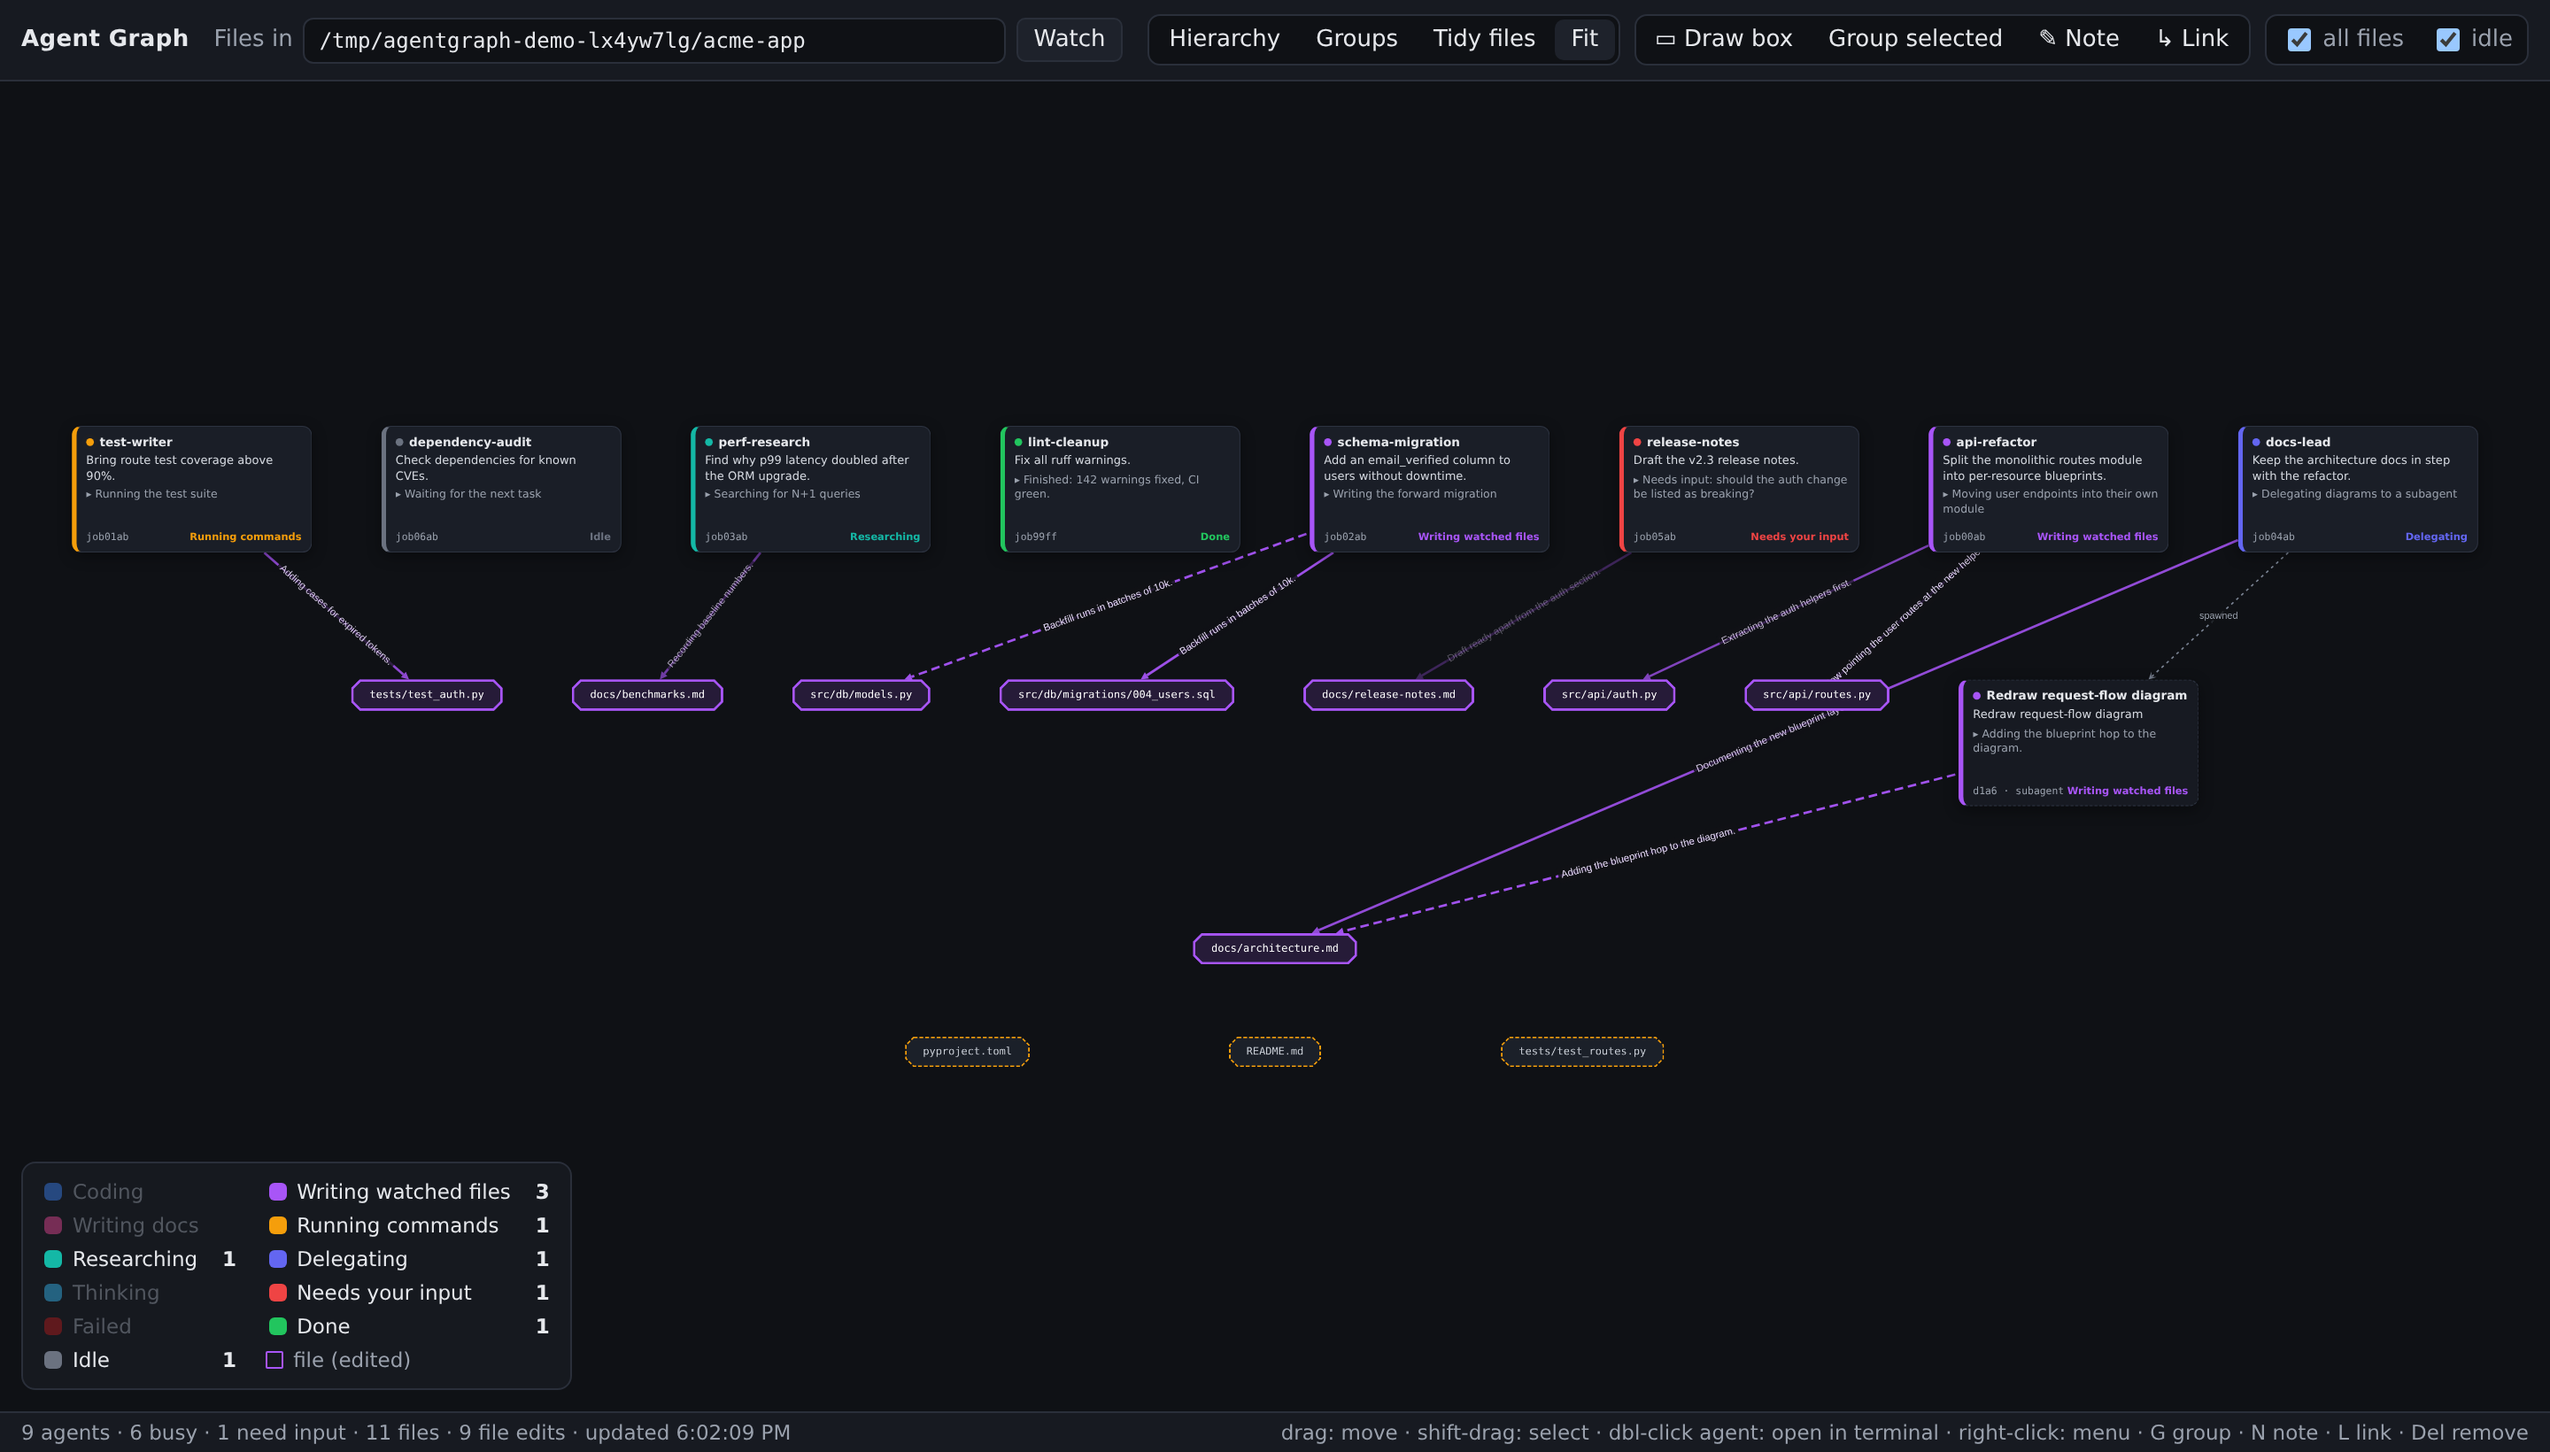
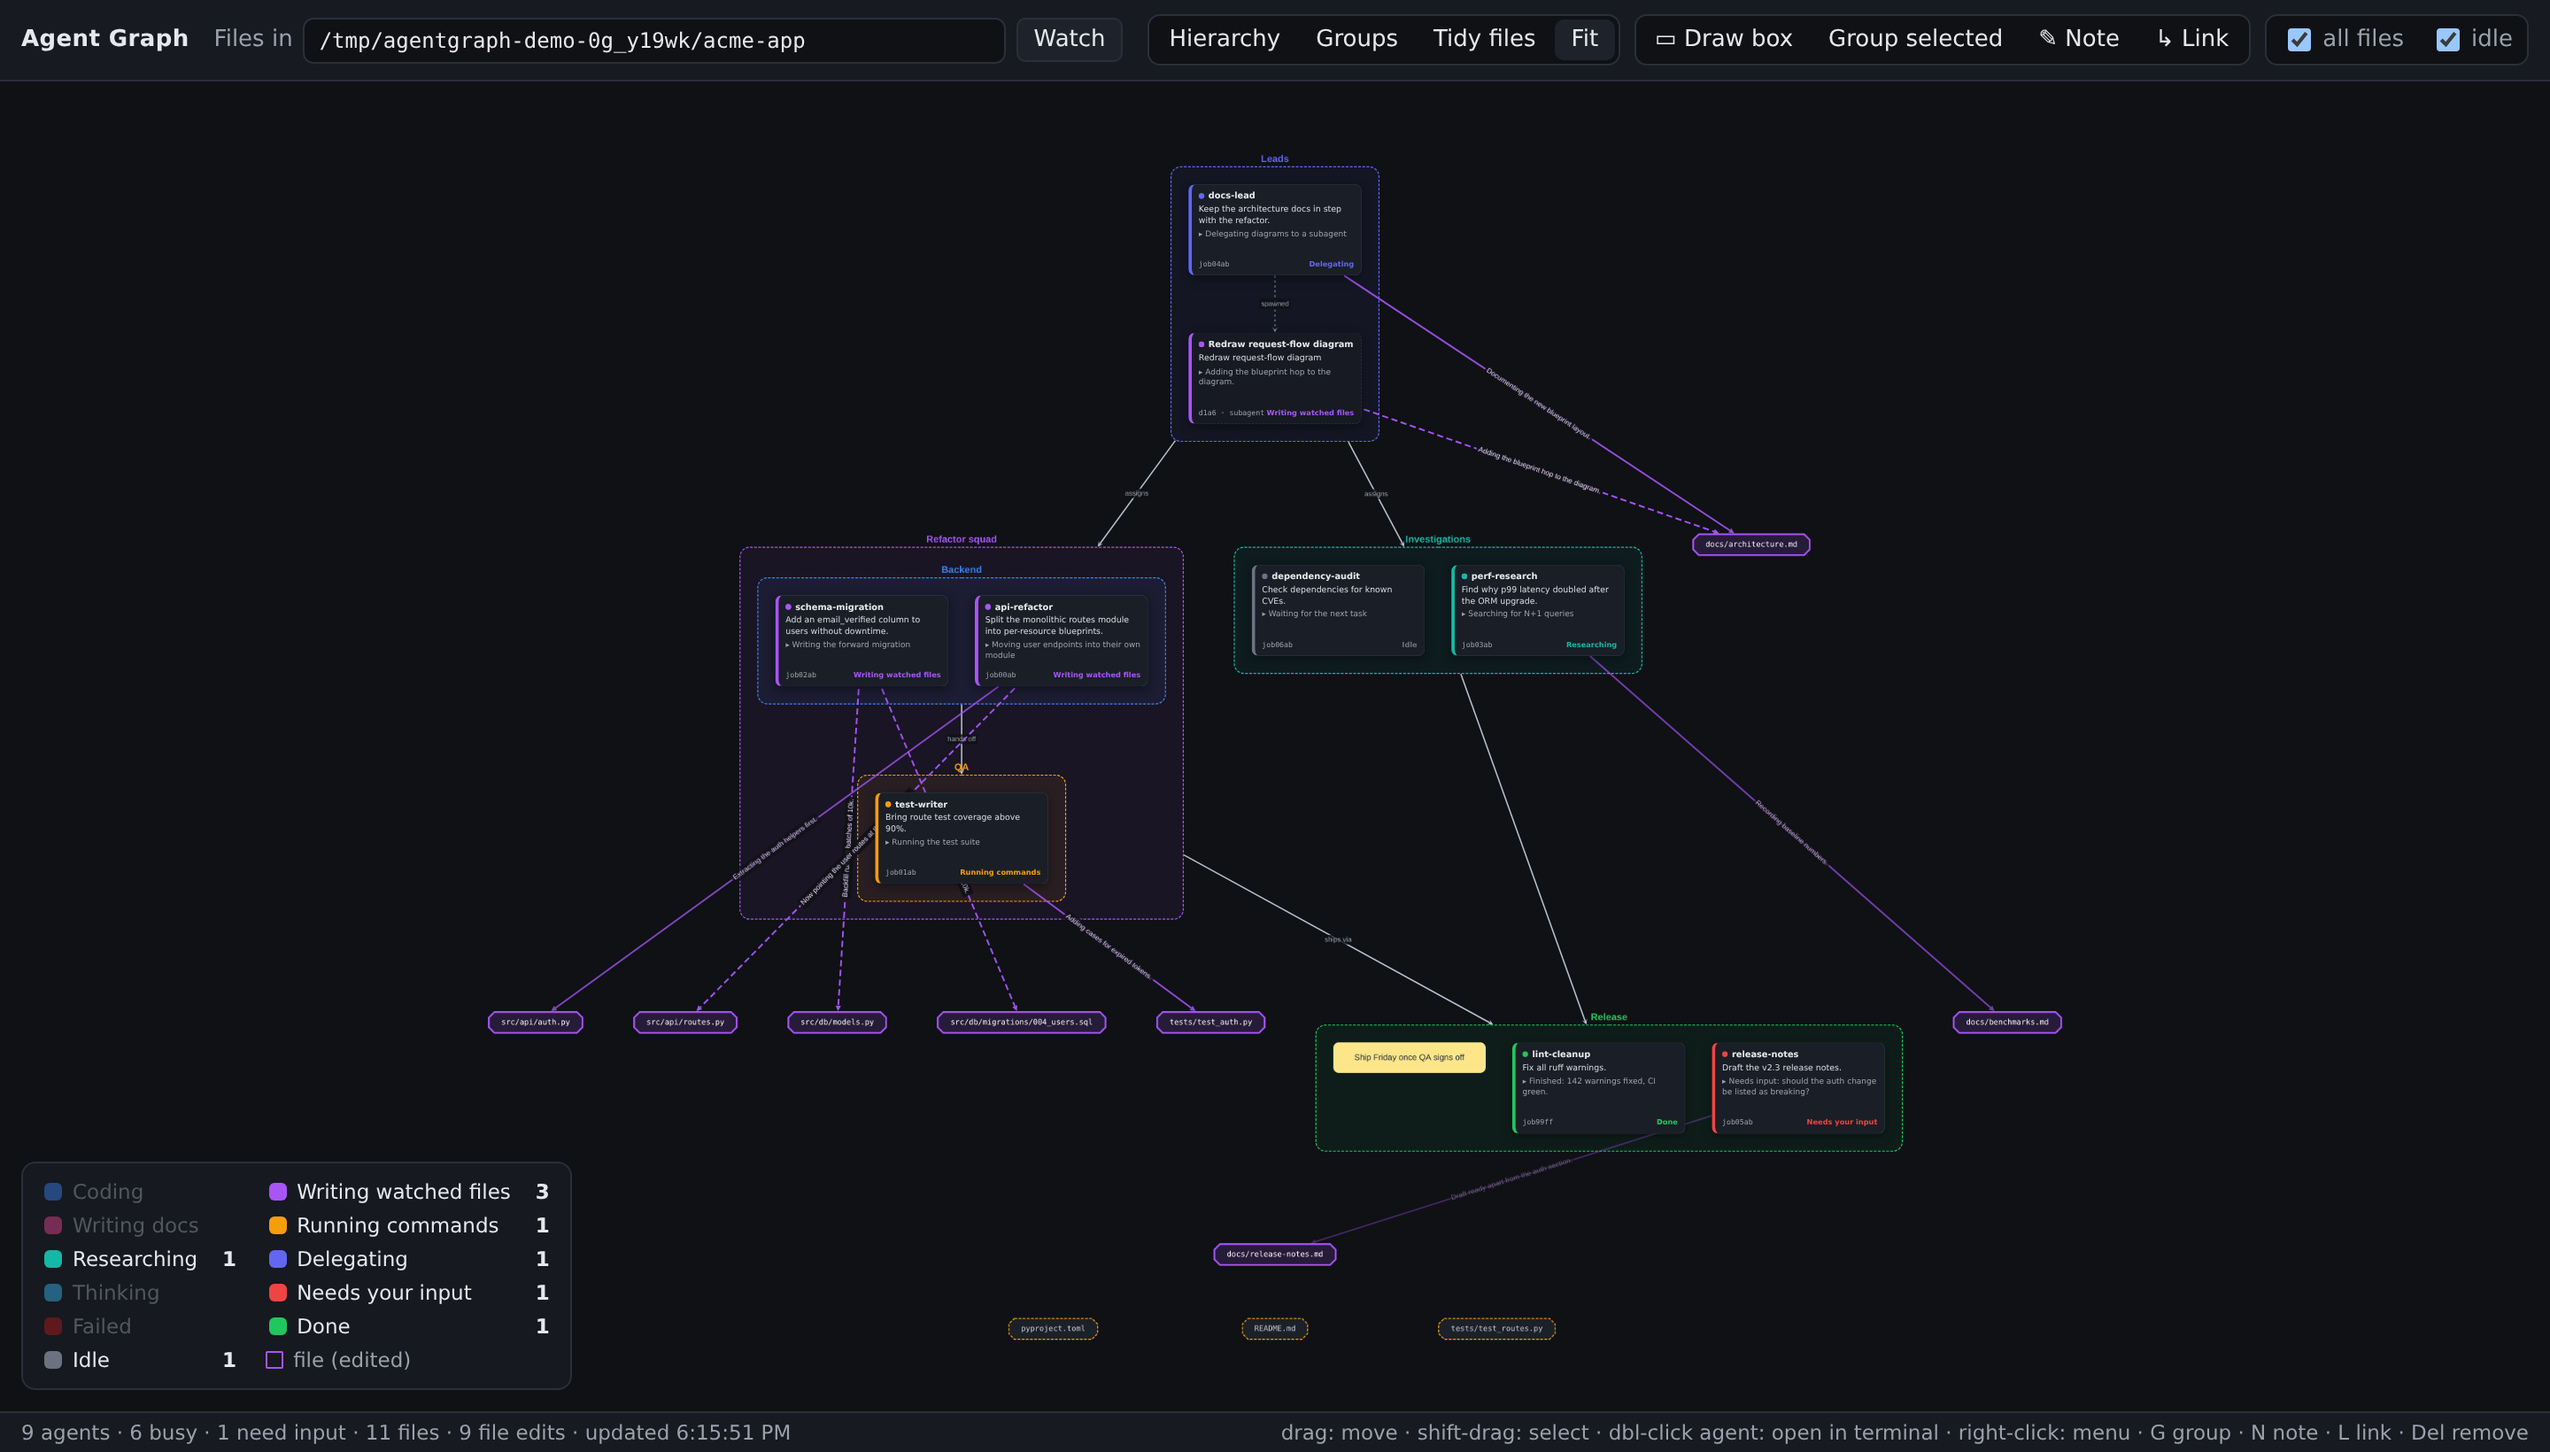
Demo: show nested boxes, group links and a note in the screenshot

diff --git a/scripts/demo.py b/scripts/demo.py
@@ -103,9 +103,32 @@ def build(root: Path) -> tuple[Path, Path]:
     return home, proj
 
 
+def team_layout(root: Path) -> None:
+    """Boxes, nesting, group-to-group links and a note, as if a user had arranged the graph."""
+    a = lambda i: f"agent:demo{i:02d}-0000-4000-8000-000000000000"
+    groups = {"group:lead": ("Leads", "#6366f1"), "group:squad": ("Refactor squad", "#a855f7"),
+              "group:backend": ("Backend", "#3b82f6"), "group:qa": ("QA", "#f59e0b"),
+              "group:investigate": ("Investigations", "#14b8a6"), "group:release": ("Release", "#22c55e")}
+    parents = {a(4): "group:lead", "sub:d1a6": "group:lead",
+               "group:backend": "group:squad", "group:qa": "group:squad",
+               a(0): "group:backend", a(2): "group:backend", a(1): "group:qa",
+               a(3): "group:investigate", a(6): "group:investigate",
+               a(5): "group:release", "agent:demo99-0000-4000-8000-000000000000": "group:release",
+               "note:ship": "group:release"}
+    links = [("group:lead", "group:squad", "assigns"), ("group:lead", "group:investigate", "assigns"),
+             ("group:backend", "group:qa", "hands off"), ("group:squad", "group:release", "ships via"),
+             ("group:investigate", "group:release", "")]
+    (root / "layout.json").write_text(json.dumps({
+        "positions": {}, "hidden": [], "parents": parents,
+        "groups": {g: {"label": l, "color": c} for g, (l, c) in groups.items()},
+        "links": [{"id": f"link:{i}", "source": s, "target": t, "label": l} for i, (s, t, l) in enumerate(links)],
+        "notes": {"note:ship": {"text": "Ship Friday once QA signs off", "parent": "group:release"}}}))
+
+
 def main() -> int:
     root = Path(tempfile.mkdtemp(prefix="agentgraph-demo-"))
     home, proj = build(root)
+    team_layout(root)
     os.environ["CLAUDE_CONFIG_DIR"] = str(home)
     sys.path.insert(0, str(Path(__file__).resolve().parent.parent))
     from agentgraph.__main__ import main as agentgraph_main

diff --git a/README.md b/README.md
@@ -3,9 +3,10 @@
 A live, editable graph of the [Claude Code](https://claude.com/claude-code) agents running on your machine, and
 the files they are changing.
 
-![agentgraph showing nine demo agents, the files they edit, and the colour legend](docs/screenshot.png)
+![agentgraph showing demo agents in nested boxes, linked team-to-team, with the files they edit](docs/screenshot.png)
 
-*The screenshot uses made-up agents from `scripts/demo.py`.*
+*Made-up agents from `scripts/demo.py`, arranged with boxes (Backend and QA nested inside Refactor squad),
+group-to-group hierarchy links, a note, and the **Hierarchy** layout.*
 
 - **Agent nodes** (cards). The title is the agent's name and id. The body says what the agent is working toward,
   plus its current step (`▸ …`). The colour shows what it is doing right now. The legend counts how many agents
